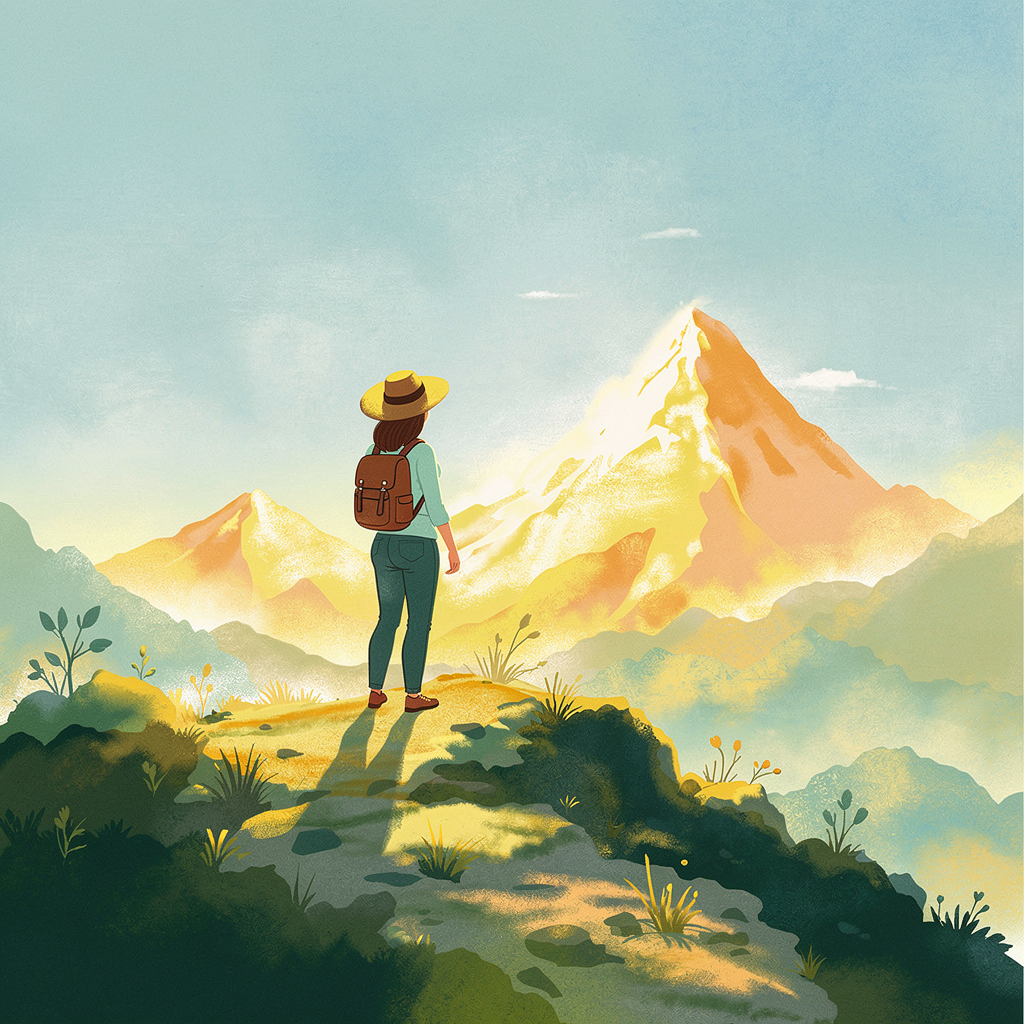
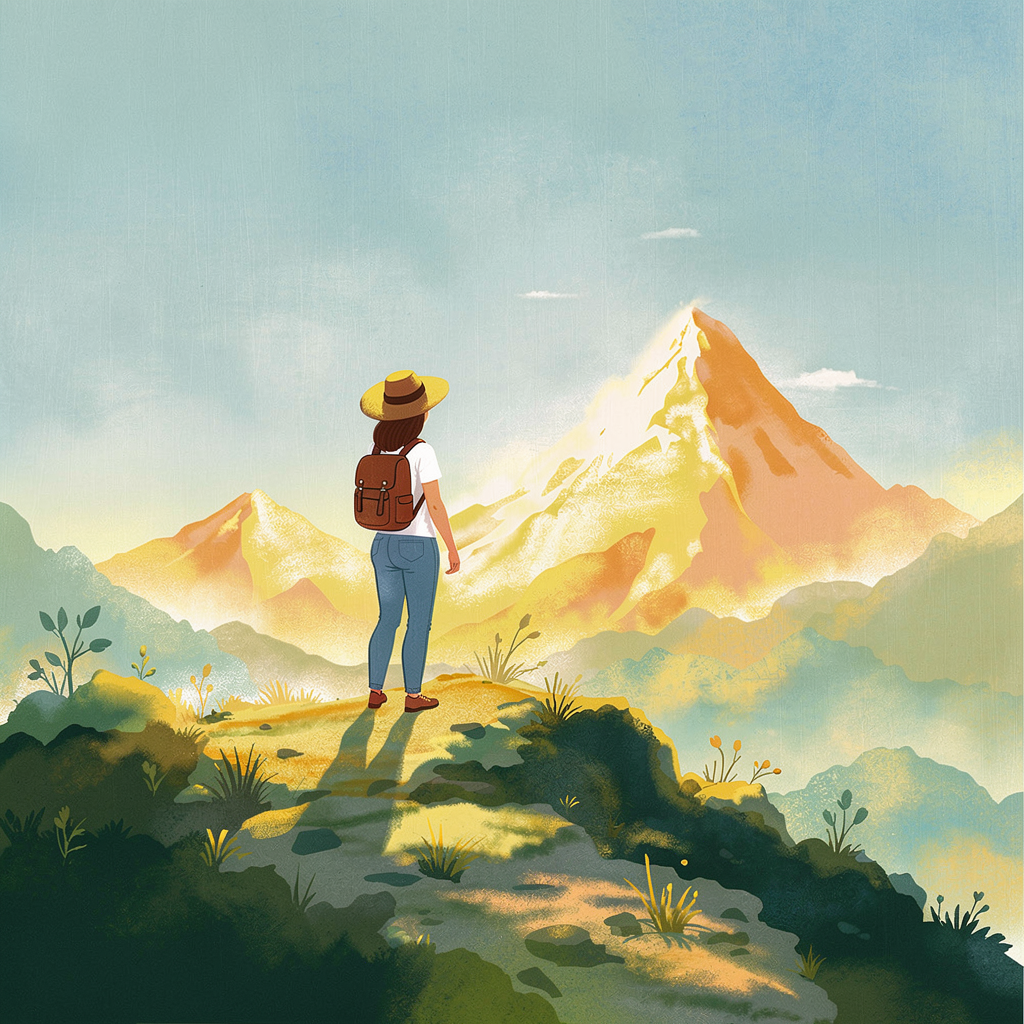
Update journey images and simplify FinalCTA
- Update plains and mountain journey images
- Remove email form from FinalCTA, replace with simple CTA button
  (placeholder until Tally.so integration)

Changed region(s): [[0.3438, 0.4062, 0.4375, 0.6875], [0.5938, 0.4688, 0.625, 0.5]]

diff --git a/src/components/FinalCTA.tsx b/src/components/FinalCTA.tsx
@@ -1,25 +1,9 @@
-import { useState } from "react";
 import wavesImage from "@/assets/waves-trans.png";
 import { Button } from "@/components/ui/button";
-import { Input } from "@/components/ui/input";
-import { Checkbox } from "@/components/ui/checkbox";
-import { CheckCircle } from "lucide-react";
 
 const FinalCTA = () => {
-  const [email, setEmail] = useState("");
-  const [consent, setConsent] = useState(false);
-  const [isSubmitted, setIsSubmitted] = useState(false);
-  const [isLoading, setIsLoading] = useState(false);
-
-  const handleSubmit = async (e: React.FormEvent) => {
-    e.preventDefault();
-    if (!email || !consent) return;
-
-    setIsLoading(true);
-    // Simulate form submission
-    await new Promise((resolve) => setTimeout(resolve, 1000));
-    setIsSubmitted(true);
-    setIsLoading(false);
+  const scrollToTop = () => {
+    window.scrollTo({ top: 0, behavior: "smooth" });
   };
 
   return (
@@ -44,53 +28,13 @@ const FinalCTA = () => {
             Vær med fra start når vi lancerer MitLivMed i 2026
           </h2>
 
-          {isSubmitted ? (
-            <div className="animate-scale-in bg-secondary/10 border border-secondary/30 rounded-2xl p-8">
-              <CheckCircle className="w-16 h-16 text-secondary mx-auto mb-4" />
-              <p className="text-xl font-heading font-medium text-foreground mb-2">
-                Tak! Du er skrevet op.
-              </p>
-              <p className="text-text-medium font-body">
-                Vi sender dig besked, når MitLivMed åbner.
-              </p>
-            </div>
-          ) : (
-            <form onSubmit={handleSubmit} className="space-y-4">
-              <div className="flex flex-col sm:flex-row gap-3 justify-center">
-                <Input
-                  type="email"
-                  placeholder="Din e-mail"
-                  value={email}
-                  onChange={(e) => setEmail(e.target.value)}
-                  required
-                  className="sm:w-80 h-12 text-base font-body border-border focus:border-primary focus:ring-primary"
-                />
-                <Button
-                  type="submit"
-                  size="lg"
-                  disabled={!email || !consent || isLoading}
-                  className="bg-primary hover:bg-primary/90 text-primary-foreground font-heading font-semibold text-base px-8 py-6 cta-shadow hover:cta-shadow-hover hover:scale-105 transition-all disabled:opacity-50 disabled:hover:scale-100"
-                >
-                  {isLoading ? "Sender..." : "Skriv dig op som betatester"}
-                </Button>
-              </div>
-
-              <div className="flex items-start gap-3 justify-center max-w-md mx-auto">
-                <Checkbox
-                  id="consent"
-                  checked={consent}
-                  onCheckedChange={(checked) => setConsent(checked === true)}
-                  className="mt-1 border-border data-[state=checked]:bg-primary data-[state=checked]:border-primary"
-                />
-                <label
-                  htmlFor="consent"
-                  className="text-sm text-text-medium font-body text-left cursor-pointer"
-                >
-                  Jeg accepterer, at MitLivMed må kontakte mig via e-mail om lanceringen.
-                </label>
-              </div>
-            </form>
-          )}
+          <Button
+            onClick={scrollToTop}
+            size="lg"
+            className="bg-primary hover:bg-primary/90 text-primary-foreground font-heading font-semibold text-base px-8 py-6 cta-shadow hover:cta-shadow-hover hover:scale-105 transition-all"
+          >
+            Skriv dig op som betatester
+          </Button>
         </div>
       </div>
     </section>
